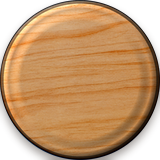
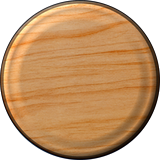
fix(art): 木质底圆弃外投影，改满幅内缘刻印（零裁切）(WXG-T-548)

diff --git a/games/beads/design/ai-workflows/gen-circle-base-2state.py b/games/beads/design/ai-workflows/gen-circle-base-2state.py
@@ -1,37 +1,54 @@
-"""木质圆牌底托两态派生：normal = 木牌 + 柔和投影；pressed = 木牌压暗、无投影。
+"""木质圆牌底托两态派生：满幅盘体 + 内缘刻印（normal）／压暗加深内缘（pressed）。
 
-来源：WXG-T-546（`temp/m10-base-gen.py` 原样搬运）。输入 = T-539 的共用底托 `btn-base-2x-160.png`。
-按下态语义：木牌本身无内投影，故不用「投影变窄」的旧口径（那是白盘版），改为「去投影 + 压暗 10%」。
+来源：WXG-T-546/547/548（原 `temp/m10-base-gen.py`）。
+输入 = T-539 的共用底托 `btn-base-2x-160.png`（该件 bbox 占满 0..159）。
+
+⛔ 三条硬约束（全是踩过的坑，改这里前先读）：
+  1. **盘体不得位移**：源 bbox 已占满画布，上移会把盘顶切平（WXG-T-546 首版错）。
+  2. **盘体不得缩小**：缩了才能放下外投影，但代价是运行时常量 `MENU_TOPBAR_VISUAL_D = 80`
+     按满幅铺满绘制 ⇒ 盘体实显直径跟着缩水（0.90 档只剩 Ø72，小 10%），四钮会明显小于其他 UI。
+  3. **不要外投影**：源件没有余量，任何外投影都会溢到画布外被裁（WXG-T-547 修完顶部后暴露）。
+⇒ 结论：立体感改由**内缘刻印**表达——满幅、零溢出、与「木刻」主题一致（图标本来就是刻痕）。
+
+按下态语义：木牌本身无内投影，故不用白盘版「投影紧贴变窄」的旧口径，改为「整体压暗 10% + 内缘加深」。
+
 用法：python3 games/beads/design/ai-workflows/gen-circle-base-2state.py（产物落 temp/，再拷入 final 与 cocos）
 """
-from PIL import Image, ImageEnhance, ImageFilter
+from PIL import Image, ImageChops, ImageEnhance, ImageFilter
 
 BASE = ('games/beads/design/art/proposals/menu-3d-style-20261030/'
         'btn-topbar-layered-20261102/btn-base-2x-160.png')
 S = 160
-LIFT = 0            # ⛔ 不得上移：源底托 bbox 已占满 0..159，任何上移都会把盘顶切平（WXG-T-546 首版即此错）
-BLUR = 4            # 投影模糊半径
-SHADOW_ALPHA = 0.40  # 投影最深处不透明度
-PRESS_DARKEN = 0.90  # 按下态亮度系数
+RING = 7            # 内缘环宽度（MinFilter 核径）
+RING_ALPHA = 0.28   # normal 内缘暗度
+RING_ALPHA_PRESS = 0.44
+PRESS_DARKEN = 0.90
 
-src = Image.open(BASE).convert('RGBA').resize((S, S), Image.LANCZOS)
-
-body = Image.new('RGBA', (S, S), (0, 0, 0, 0))
-body.alpha_composite(src, (0, -LIFT))
-
+body = Image.open(BASE).convert('RGBA').resize((S, S), Image.LANCZOS)
 a = body.getchannel('A')
-sh = Image.new('L', (S, S), 0)
-sh.paste(a, (0, 5))                             # 投影只在下方溢出（与旧白盘同口径，溢出被画布裁掉）
-sh = sh.filter(ImageFilter.GaussianBlur(BLUR))
-shadow = Image.new('RGBA', (S, S), (24, 12, 4, 0))
-shadow.putalpha(sh.point(lambda v: int(v * SHADOW_ALPHA)))
+ring = ImageChops.subtract(a, a.filter(ImageFilter.MinFilter(RING)))
 
-normal = Image.alpha_composite(shadow, body)
+# 内缘：上缘略深（光从上方来，坑的上内壁背光），下缘略浅
+yy = Image.linear_gradient('L').resize((S, S), Image.LANCZOS)  # 0 → 255 自上而下
+ring_w = ImageChops.multiply(ring, yy.point(lambda v: int(160 + v * 0.37)))
+
+
+def with_ring(level):
+    over = Image.new('RGBA', (S, S), (28, 14, 5, 0))
+    over.putalpha(ring_w.point(lambda v: int(v * level)))
+    return Image.alpha_composite(over, body)
+
+
+normal = with_ring(RING_ALPHA)
 
 _r, _g, _b, _a = body.split()
 _lit = ImageEnhance.Brightness(Image.merge('RGB', (_r, _g, _b))).enhance(PRESS_DARKEN)
-pressed = Image.merge('RGBA', (*_lit.split(), _a))
+dimmed = Image.merge('RGBA', (*_lit.split(), _a))
+_ar, _ag, _ab, _aa = dimmed.split()
+over = Image.new('RGBA', (S, S), (28, 14, 5, 0))
+over.putalpha(ring_w.point(lambda v: int(v * RING_ALPHA_PRESS)))
+pressed = Image.alpha_composite(over, dimmed)
 
 normal.save('temp/base-normal-160.png')
 pressed.save('temp/base-pressed-160.png')
-print('normal / pressed 已生成，尺寸', normal.size)
+print('normal / pressed 已生成（满幅 160，内缘刻印）')

diff --git a/production/TASKS.md b/production/TASKS.md
@@ -2,12 +2,13 @@
 
 > **格式（WXG-T-064 起）：标题制 + 详情分片。** 本表**只留标题**（名称列 ≤ 60 字符，由 `pnpm run check:tasks` 机械强制）；任务正文在 `production/TASKS-DETAIL.md` 的 `## WXG-T-0NN` 小节。**读取协议**：领号/看状态只读本表（≈ 2.2k tok）；要某任务详情时，从 `ctx/index.json` 取该小节的 `startLine`/`endLine`，`read_file(path, offset, limit)` **只读那一节**（中位 ≈ 290 tok），**不要整读详情文件**。归档时**行与小节成对搬走**。
 > 单号递增不回收。任何会话（WorkBuddy/Cursor/Qoder/CodeBuddy）开工前**先读本文件领号**，完成后回填状态——根治跨 IDE 撞号（教训：2026-09-12 CodeBuddy 独立会话撞用 T-013/T-014）。
-> **领号（机械校准锚，供 `pnpm run tasks:archive` 校准用）**：当前已分配至 **WXG-T-547**，下一可用号 **WXG-T-548**（**沿革已外移**：每个已分配号的批次摘要、冲突披露与 ADR 编号表 → `production/archive/TASKS-ledger-notes.md`，2026-10-28 由 WXG-T-482 原文照搬迁出；动机 = 该段占台账 39,909 tok 而 `tasks:archive` 只搬表行、对它零效力 ⇒ 台账撞 80k 门。⛔ 日常领号只认本行数值，**不要**去读那份沿革）。
+> **领号（机械校准锚，供 `pnpm run tasks:archive` 校准用）**：当前已分配至 **WXG-T-548**，下一可用号 **WXG-T-549**（**沿革已外移**：每个已分配号的批次摘要、冲突披露与 ADR 编号表 → `production/archive/TASKS-ledger-notes.md`，2026-10-28 由 WXG-T-482 原文照搬迁出；动机 = 该段占台账 39,909 tok 而 `tasks:archive` 只搬表行、对它零效力 ⇒ 台账撞 80k 门。⛔ 日常领号只认本行数值，**不要**去读那份沿革）。
 > 勘误（2026-09-13）：本注此前长期停在「已分配至 T-032」而表内已排到 T-035，曾致撞号（教训见 memory 记录）；WXG-T-040 归档落地后改为——**领号认本注（下一可用号），本注由 `tasks:archive` 校准**为「主表 ∪ 归档全局最大号 + 1」（归档会把老行移出主表，只看主表最大号必重号）；手工领号后请顺手核对本注（可运行 `pnpm run tasks:archive` 校准，0 行时不落盘）。
 > **用过号未自登主表清单**（K-137 只披露不代填）：222 / 257 / 280·281 / 282 / 283 / 285 / 286·287 / 289 （291 已由 WXG-T-292 代收口自登；203–207 属区间披露）——逐条正文与补账口径见 `production/archive/TASKS-ledger-notes.md` §A 末段。⛔ 仍不代填，待各会话自登。
 
 | Task ID | 名称 | 负责 | 状态 | 产出 |
 |---|---|---|---|---|
+| WXG-T-548 | 美术·木质底圆改满幅内缘刻印（弃外投影） | 主理人(CodeBuddy)·美术轨 | ✅ **完成（2026-11-02）**（用户报「底下阴影也有被裁的部分」⇒ T-547 的外投影版仍有溢出（盘底 151 + 下移 3 + 高斯扩散 ≈ 溢出到画布外）。**根因是无法两全**：源底托 bbox 占满 0..159，要容纳完整外投影必须把盘体缩到 0.90，而 `MENU_TOPBAR_VISUAL_D = 80` 按满幅铺满绘制 ⇒ 盘体实显只剩 Ø72（小 10%），四钮会明显小于其他 UI。**改法**：**弃外投影**，立体感改由「内缘刻印」表达——内缘环 = 盘体 alpha 减 `MinFilter(7)` 腐蚀版（上缘深下缘浅）叠 28% 深棕黑；按下 = 整体 ×0.90 + 内缘加深 44%。**四边核对**：两态与源件 bbox 逐边完全一致（上 26 / 左 24 / 右 24 / 下 26，y 0..159）⇒ 零裁切。**验证**：harness 重截四钮圆弧与外环完整、无任何切边；`pnpm run build:cocos` release 档成功（16.7s，v1.0.22→v1.0.23）。**回写**：脚本三条硬约束写进 docstring（不位移 / 不缩小 / 不加外投影），`asset-provenance.md` 该行改正） | 见详情 |
 | WXG-T-547 | 美术·木质底圆顶部被裁修正（T-546 回归） | 主理人(CodeBuddy)·美术轨 | ✅ **完成（2026-11-02）**（用户报「顶部被裁掉了一部分」⇒ 确诊：源底托 `btn-base-2x-160.png` 的 bbox 本来就占满 `0..159`，T-546 又把盘体上移 4px 想给投影腾地方 ⇒ 盘顶被切平，上边缘出现一条 56px 长的弦。**修法**：`LIFT` 4 → **0**（盘体原位不动），投影改为「alpha 下移 5px + 高斯模糊 4 + 40%」，只在下方溢出（与旧白盘版的溢出行为一致）。**四边核对**：修正后 pressed 四边像素数 = 源底托逐边相同（上 26 / 左 24 / 右 24 / 下 26），normal 仅底部因投影为 86。**验证**：harness 菜单页重截，四钮圆弧完整、外环闭合、无切边；`pnpm run build:cocos` release 档成功。**回写**：`asset-provenance.md` 该行做法描述改正，脚本 `gen-circle-base-2state.py` 的 `LIFT` 常量加警告注释防复发） | 见详情 |
 | WXG-T-546 | 美术·顶栏底圆换木质圆牌（两态派生） | 主理人(CodeBuddy)·美术轨 | ✅ **完成（2026-11-02）**（用户选「换木质底托」⇒ `ui_btn_circle_normal/pressed` 由「白圆盘 + 宽柔投影」换成 T-539 共用木牌 `btn-base-2x-160.png`，落 `final/assets/menu/` + `cocos/assets/textures/` 两处 4 个 PNG。**按下态重新定义**：木牌本身无内投影 ⇒ 不再沿用白盘版「投影紧贴变窄」，改「**去投影 + 亮度 ×0.90**」；常态则给木牌补柔和投影（盘体 alpha 下移 7px → 高斯模糊 4 → 40% 深棕黑）以立住 3D 感。**影响面已核**：`ui_btn_circle_*` 仅被顶栏四钮消费（另两枚闲置 `ui_icon_sound/mail` 无引用），无别处复用。**验证**：harness 菜单页截图（`?game=beads&meta=menu&hud=off`）四钮木牌上屏、投影与红点均正常；`pnpm run build:cocos` release 档成功（18.3s，v1.0.20→v1.0.21）。**生成史**：一次性脚本提副本入 `ai-workflows/gen-circle-base-2state.py`，`asset-provenance.md` 补录 2 件（三项齐备，本档少见可重跑件），`final/README.md` 台账标换代） | 见详情 |
 | WXG-T-545 | 美术·顶栏四钮图标接入运行时（替换线上彩色图标） | 主理人(CodeBuddy)·美术轨 | ✅ **完成（2026-11-02）**（用户选「维持本地版并接入」⇒ 四枚深棕线条图标替换线上彩色扁平版（灰齿轮/紫奖杯/橙日历/绿T恤），落 `final/assets/menu/ui_icon_{settings,rank,calendar,skin}.png` + `cocos/assets/textures/` 同名投放件，共 4 件 ×2 处 = 8 个 PNG。**视图层零改动**：`meta-menu.ts` 早已按 `textureId` 走 `builder.blit`，四枚 id 与两处宿主映射（Cocos `BITMAP_ASSETS` / harness `MENU_FILE`）均已登记，故只是换文件内容。**规格对齐**：新件 160²@2x 与 `MENU_TOPBAR_VISUAL_D = 80` 完全一致；最大半径 54.0–56.4px ＜ 白圆实体半径 59.0px（原图标更小、显空）。**验证**：`@wxgame/beads` 单测 120 文件 / 1422 通过；`pnpm run build:cocos` release 档成功（19.9s，v1.0.19→v1.0.20，Cocos 自动重算 meta 的 trim、uuid 未变）；Chrome headless 截菜单页（`?game=beads&meta=menu&hud=off`）四钮全部上屏、无一越界。**生成史**：一次性追踪脚本提副本入 `ai-workflows/trace-icon-lineart.py`，`asset-provenance.md` 补录 4 件（原图不可得、复现配方在 `p-btn-traced-v2.txt`） | 见详情 |

diff --git a/production/qa/asset-provenance.md b/production/qa/asset-provenance.md
@@ -30,7 +30,7 @@
 | `ui_showcase_frame` 1088×1742 P(32) 188.4 KB | 云 `qwen-image-3.0` **i2i**：以旧窗框为参考，`size=1088*1742`、seed 88；后处理三步 = 裁到柜体 bbox → 四角色键转 alpha → **去光**（σ=90 低频模糊场相除，除同心色带；光晕改由引擎 `drawCaseLight` 画） | 处理脚本**未留档**（三步口径完整记在 WXG-T-522 §2，可按其重建）；抠件工具另见 `ai-workflows/cut-single-local.py` | ⚠ 参考原图 = 旧 `ui_showcase_frame.png`（1188×1892，用户 2026-10-14 供高清正本，已被本版覆盖；史证在 `final/README.md` 台账行与 `art/shots/`）；同链正本 `master-single-bg.png` **本批已入库** → `proposals/menu-3d-style-20261030/plate-cut-20261031/` | WXG-T-522 §2 |
 | `ui_btn_arrow_left` / `ui_btn_arrow_right` 129×129 P(256) 4.3 KB | 从整版 AI 稿切件（256 色量化）；`parts/` 八件里**仅此两件切净**（四缘各 1px 切点），其余六件 2026-10-31 用户裁定删除作废 | 切件脚本**未留档**（`parts/` 与 `sam2-parts/` 均已清空）；2026-11-01 复切走在册 `ai-workflows/cut-single-local.py --mode shape --shape disc,72,661,55` → 110×110，⛔ 未达 @2x（分辨率墙，见 `production/qa/menu-small-parts-cut-20261101.md`） | ⚠ 原图不可得：用户 2026-10-30 所供「整版木屋场景稿」（宽 720）**从未入库**，temp 副本已随清理删除 ⇒ 复现须重新取得原件，判据法见 WXG-T-517 §2（假透明双峰 ±5 + 5px 闭运算）。同批**抠件源稿**已入库：`proposals/menu-3d-style-20261030/menu-design-master-20261031.png`（752×1344 RGBA） | WXG-T-517 §2/§3 || `ui_icon_settings` / `ui_icon_rank` / `ui_icon_calendar` / `ui_icon_skin` 各 160×160 RGBA<br>（`final/assets/menu/` 美术真源 + `cocos/assets/textures/` 投放件两份同名；`.meta` 的 trim 由 Cocos 重算、uuid 未变） | **2026-11-02 替换**（原为彩色扁平图标，灰齿轮/紫奖杯/橙日历/绿T恤）：本地 ComfyUI `Qwen_image_2.1`（int8，25 步 / cfg 1.0 / euler-simple / 1024²，seed 11 或 222）出线稿底图 → **位图追踪转矢量**（crack-following → Chaikin(2) → RDP(0.9) → 按外接圆归一 35.0/100 → SVG 单 path `evenodd`）→ 栅格化 160² | `ai-workflows/trace-icon-lineart.py`（本批新入库，原 `temp/m8-trace.py` 原样搬运） | ⚠ 原图不可得：底图在 `temp/comfyui-out/m8-{rank-v2-s11,calendar-s11,skin-v2-s222}/`（`temp/` 不入库）。复现配方（逐字提示词 + seed + 参数 + 择优理由）见 `proposals/menu-3d-style-20261030/btn-topbar-traced-v2-20261102/p-btn-traced-v2.txt`；同族云端横比对照片见 `…/btn-topbar-traced-cloud-20261102/p-btn-traced-cloud.txt` | WXG-T-541/542/543（出图与定稿）+ WXG-T-545（接入运行时） |
 
-| `ui_btn_circle_normal` / `ui_btn_circle_pressed` 各 160×160 RGBA<br>（`final/assets/menu/` 美术真源 + `cocos/assets/textures/` 投放件两份同名） | **2026-11-02 替换**（原为「白圆盘 + 宽柔投影」，按下 = 投影变窄）：底托取 T-539 共用木牌 `btn-base-2x-160.png`。常态 = 盘体**原位不动**（⛔ 源底托 bbox 已占满 0..159，任何上移都会把盘顶切平——T-546 首版即此错，T-547 修正）+ 叠投影（盘体 alpha 下移 5px → 高斯模糊 4 → 40% 深棕黑，只在下方溢出、与旧白盘同口径）；按下 = 同盘体亮度 ×0.90、**无投影**（木牌本身无内投影，故不再沿用白盘版「投影紧贴变窄」的口径） | `ai-workflows/gen-circle-base-2state.py`（本批新入库，原 `temp/m10-base-gen.py` 原样搬运） | ✅ 底托原图在册：`proposals/menu-3d-style-20261030/btn-topbar-layered-20261102/btn-base-2x-160.png`（来源见 T-539 批次说明；该件本身是从模型出图抽取的共用底托） | WXG-T-539（底托）+ WXG-T-546（接入运行时） |
+| `ui_btn_circle_normal` / `ui_btn_circle_pressed` 各 160×160 RGBA<br>（`final/assets/menu/` 美术真源 + `cocos/assets/textures/` 投放件两份同名） | **2026-11-02 替换**（原为「白圆盘 + 宽柔投影」，按下 = 投影变窄）：底托取 T-539 共用木牌 `btn-base-2x-160.png`，**满幅不缩不位移**（⛔ 源 bbox 占满 0..159：上移会把盘顶切平＝T-546 首版；加外投影会溢出被裁＝T-547 版）。立体感改由**内缘刻印**表达：内缘环 = 盘体 alpha 减 `MinFilter(7)` 腐蚀版，上缘深、下缘浅，叠 28% 深棕黑；按下 = 整体亮度 ×0.90 + 内缘加深到 44%。⛔ 不缩盘体（缩到 0.90 才能容纳完整外投影，但 `MENU_TOPBAR_VISUAL_D = 80` 按满幅铺满绘制 ⇒ 盘体实显只剩 Ø72，四钮会明显小于其他 UI） | `ai-workflows/gen-circle-base-2state.py`（本批新入库，原 `temp/m10-base-gen.py` 原样搬运） | ✅ 底托原图在册：`proposals/menu-3d-style-20261030/btn-topbar-layered-20261102/btn-base-2x-160.png`（来源见 T-539 批次说明；该件本身是从模型出图抽取的共用底托） | WXG-T-539（底托）+ WXG-T-546（接入运行时） |
 
 ### 累计状态
 

diff --git a/ctx/hot-files.md b/ctx/hot-files.md
@@ -25,9 +25,9 @@
 
 §wechatgame 项目长期笔记=1+81 · §日志蒸馏规程（R2 · WXG-T-0…=7+6 · §项目约定=13+22 · §常用脚本=35+11 · §SubAgent=46+4 · §Rules=50+3 · §Hooks=53+7 · §Headless / CI=60+8 · §已知限制=68+14
 
-## `production/TASKS.md` — 153 行 / 34210 tok / 实测读 4 次
+## `production/TASKS.md` — 154 行 / 34571 tok / 实测读 4 次
 
-§WXG 任务台账（SSOT）=1+154 · §待排（backlog，无号，立项时领取…=126+29
+§WXG 任务台账（SSOT）=1+155 · §待排（backlog，无号，立项时领取…=127+29
 
 ## `production/qa/beads/test-cases.md` — 63 行 / 3722 tok / 实测读 15 次
 
@@ -103,10 +103,10 @@
 §knowledge/ — 工作室知识库…=1+319 · §1 读取协议（开发前期）=7+10 · §2 写入协议（任务收尾）=17+28 · §3 文件分工=45+10 · §4 维护=55+12 · §5 生命周期（访问记账 → 归档 → …=67+41 · §6 活跃条目（自动生成）=108+212
 > 本表只列 7 / 11 节：其余 4 节 → ctx/index.json（按 path 取 `sections[].anchor` / `startLine`，勿整读）。
 
-## `production/TASKS-DETAIL.md` — 6579 行 / 189697 tok
+## `production/TASKS-DETAIL.md` — 6624 行 / 190390 tok
 
-§WXG 任务台账 · 详情（标题制正文…=1+6580 · §WXG-T-536=5877+39 · §WXG-T-537=5963+57 · §WXG-T-538=6020+62 · §WXG-T-539=6082+52 · §WXG-T-540=6134+69 · §WXG-T-541=6203+73 · §WXG-T-542=6276+57 · §WXG-T-543=6333+64 · §WXG-T-544=6397+48 · §WXG-T-545=6445+58 · §WXG-T-546=6503+39 · §WXG-T-547=6542+39
-> 本表只列 13 / 673 节：其余 660 节 → ctx/index.json（按 path 取 `sections[].anchor` / `startLine`，勿整读）。
+§WXG 任务台账 · 详情（标题制正文…=1+6625 · §WXG-T-537=5963+57 · §WXG-T-538=6020+62 · §WXG-T-539=6082+52 · §WXG-T-540=6134+69 · §WXG-T-541=6203+73 · §WXG-T-542=6276+57 · §WXG-T-543=6333+64 · §WXG-T-544=6397+48 · §WXG-T-545=6445+58 · §WXG-T-546=6503+39 · §WXG-T-547=6542+39 · §WXG-T-548=6581+45
+> 本表只列 13 / 680 节：其余 667 节 → ctx/index.json（按 path 取 `sections[].anchor` / `startLine`，勿整读）。
 
 ## `games/breakout/design/concept.md` — 143 行 / 3113 tok / 实测读 217 次
 

diff --git a/ctx/BUDGET.md b/ctx/BUDGET.md
@@ -22,7 +22,7 @@
 
 | # | 文件 | tokens | 行数 | tier |
 |---:|---|---:|---:|:--:|
-| 1 | `production/TASKS-DETAIL.md` | 189697 | 6579 | normal |
+| 1 | `production/TASKS-DETAIL.md` | 190390 | 6624 | normal |
 | 2 | `games/beads/design/gdd/powerups-v2.md` | 144877 | 2328 | normal |
 | 3 | `games/beads/design/art/specs/assets-spec.md` | 121738 | 2109 | normal |
 | 4 | `production/qa/beads/g4-regression-report.md` | 86807 | 2201 | normal |
@@ -36,7 +36,7 @@
 | 12 | `games/beads/design/art/specs/art-bible.md` | 38368 | 530 | normal |
 | 13 | `games/beads/design/art/proposals/ui-style-redesign/menu-architecture.md` | 37618 | 978 | normal |
 | 14 | `games/beads/design/art/specs/accessibility.md` | 37140 | 201 | normal |
-| 15 | `production/TASKS.md` | 34210 | 153 | hot |
+| 15 | `production/TASKS.md` | 34571 | 154 | hot |
 | 16 | `memory/2026-10-04.md` | 28255 | 930 | normal |
 | 17 | `games/beads/design/gdd/save-progress.md` | 26135 | 305 | normal |
 | 18 | `games/beads/design/proposals/star-economy-and-retention.md` | 22195 | 763 | normal |
